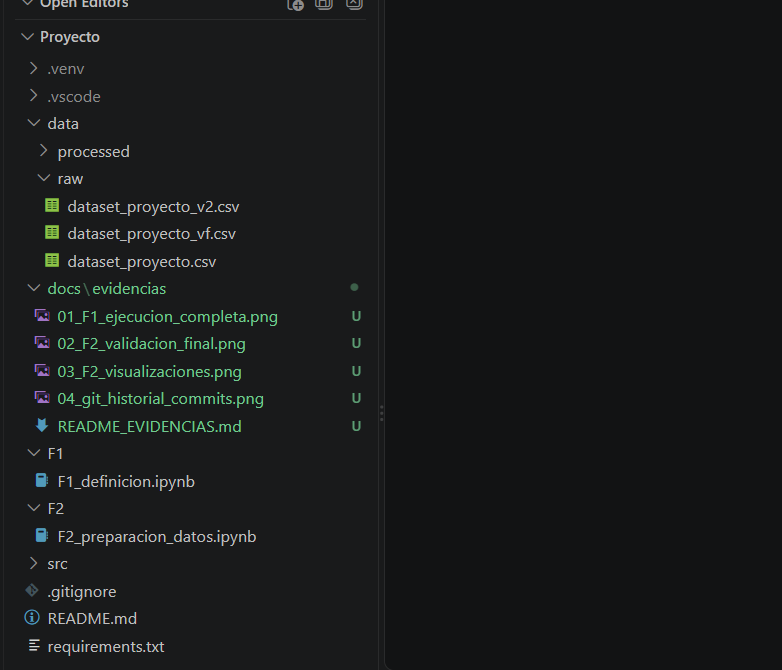
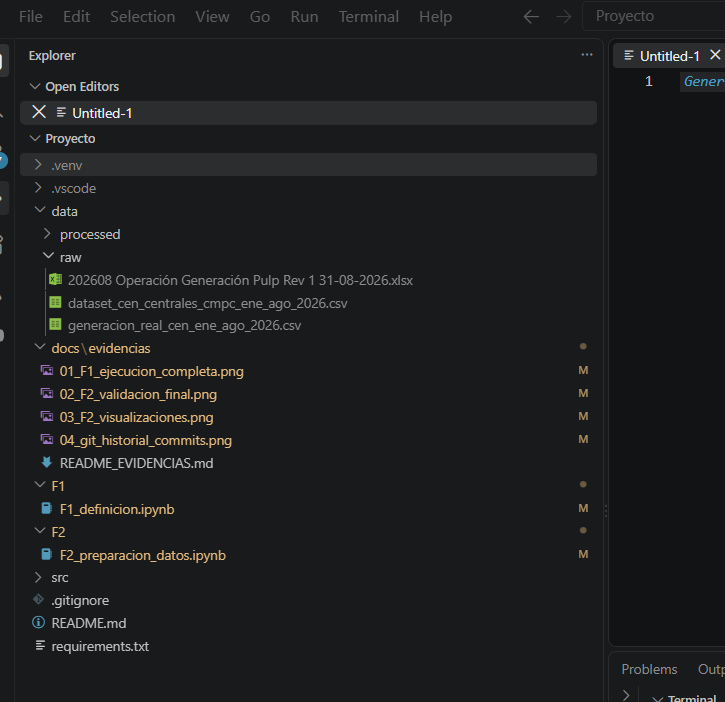
Actualiza evidencias de ejecución con dataset público CEN

diff --git a/docs/evidencias/README_EVIDENCIAS.md b/docs/evidencias/README_EVIDENCIAS.md
@@ -1,49 +1,119 @@
-# Evidencias de ejecución, validación y trazabilidad
+# Evidencias de ejecución y trazabilidad
 
-Esta carpeta reúne evidencias asociadas a la ejecución reproducible, validación técnica y trazabilidad del proyecto desarrollado en las Fases 1 y 2.
+## Sumativa 1 – Programación para la Ciencia de Datos
 
-## Evidencias
+Este directorio contiene las evidencias asociadas a la ejecución reproducible de los notebooks F1 y F2, la preparación y validación del conjunto de datos, las visualizaciones generadas y el control de versiones del proyecto.
 
-### 01. Ejecución completa F1
+El proyecto utiliza como fuente los datos públicos de **Generación Real del Coordinador Eléctrico Nacional (CEN)** para el período comprendido entre enero y agosto de 2026.
 
-**Archivo:** `01_F1_ejecucion_completa.png`
+El alcance analítico considera las centrales:
 
-Evidencia la ejecución completa del notebook correspondiente a la Fase 1, incluyendo la carga reproducible del dataset y la validación de su estructura.
+- TER CMPC LAJA
+- TER CMPC PACIFICO
+- TER CMPC SANTA FE
 
----
-
-### 02. Validación final F2
-
-**Archivo:** `02_F2_validacion_final.png`
-
-Evidencia la ejecución de las pruebas automáticas implementadas mediante `assert`, la conservación de las dimensiones del dataset, la ausencia de valores nulos generados durante el procesamiento y la correcta transformación de las variables.
+La fuente original contiene **359.891 registros y 33 variables**. Luego de seleccionar el alcance y transformar las mediciones horarias desde formato ancho a formato largo, el conjunto de datos procesado contiene **17.496 observaciones y 13 variables**.
 
 ---
 
-### 03. Visualizaciones exploratorias F2
+## 01_F1_ejecucion_completa.png
 
-**Archivo:** `03_F2_visualizaciones.png`
+**Propósito:** evidenciar la correcta ejecución de las validaciones iniciales desarrolladas en `F1/F1_definicion.ipynb`.
 
-Evidencia la incorporación de visualizaciones exploratorias asociadas al comportamiento temporal de los turbogeneradores y a la proporción de registros iguales a cero.
+La captura muestra la ejecución satisfactoria de las validaciones mediante instrucciones `assert`, verificando que:
 
----
+- la fuente contiene al menos 2.000 registros;
+- la fuente contiene al menos 12 variables;
+- el subconjunto seleccionado contiene 729 registros originales;
+- el alcance considera exactamente tres centrales.
 
-### 04. Historial de commits Git
+La salida obtenida registra:
 
-**Archivo:** `04_git_historial_commits.png`
+- Registros fuente: 359.891
+- Variables fuente: 33
+- Registros del alcance: 729
+- Centrales del alcance: 3
 
-Evidencia la trazabilidad del proyecto mediante Git y GitHub, incluyendo commits descriptivos y contribuciones realizadas por los integrantes del equipo.
-
----
-
-### 05. Estructura del repositorio
-
-**Archivo:** `05_estructura_repositorio.png`
-
-Evidencia la organización del repositorio en carpetas y archivos asociados a las Fases 1 y 2, datos originales y procesados, documentación, código fuente, dependencias y README principal.
+La ausencia de errores durante la ejecución permite comprobar que las condiciones iniciales definidas para el proyecto se cumplen.
 
 ---
 
-## Observación
+## 02_F2_validacion_final.png
 
-Las evidencias complementan los resultados almacenados directamente en los notebooks y el historial disponible en GitHub. Su propósito es facilitar la revisión del proceso de ejecución, validación y control de versiones del proyecto.
+**Propósito:** evidenciar la preparación, transformación y validación final del conjunto de datos analítico desarrollado en `F2/F2_preparacion_datos.ipynb`.
+
+F2 transforma la estructura original de la fuente, que presenta 24 columnas horarias (`Hora 1` a `Hora 24`), a un formato largo con una única unidad de observación:
+
+> Una observación representa la generación eléctrica registrada para una central durante una hora determinada, expresada en MWh.
+
+El dataset procesado contiene:
+
+- 17.496 observaciones;
+- 13 variables;
+- tres centrales;
+- período enero–agosto de 2026.
+
+Las validaciones implementadas comprueban, entre otros aspectos, la estructura esperada, identificadores únicos, ausencia de duplicados, control de valores faltantes y ausencia de valores negativos de generación.
+
+Los valores iguales a **0 MWh se conservan como observaciones válidas reportadas por la fuente**, sin atribuir automáticamente una causa operacional.
+
+---
+
+## 03_F2_visualizaciones.png
+
+**Propósito:** evidenciar la aplicación de herramientas de análisis y visualización sobre el conjunto de datos preparado.
+
+El notebook F2 incorpora visualizaciones orientadas a explorar el comportamiento de la generación eléctrica de las centrales seleccionadas, incluyendo análisis temporal, comportamiento horario y presencia de registros con generación igual a 0 MWh.
+
+Estas visualizaciones permiten complementar las validaciones numéricas y facilitan la identificación de patrones en los datos procesados.
+
+---
+
+## 04_git_historial_commits.png
+
+**Propósito:** evidenciar la trazabilidad y el uso de control de versiones mediante Git y GitHub.
+
+La captura del historial permite observar:
+
+- desarrollo mediante commits;
+- utilización de ramas;
+- integración de trabajo colaborativo;
+- Pull Requests;
+- evolución de F1 y F2;
+- migración desde el conjunto de datos utilizado inicialmente hacia la fuente pública del CEN;
+- retiro de datasets privados del versionamiento;
+- actualización de la documentación del proyecto.
+
+El historial se conserva como evidencia de la evolución del proyecto y de las decisiones implementadas durante su desarrollo.
+
+---
+
+## 05_estructura_repositorio.png
+
+**Propósito:** evidenciar la organización técnica del proyecto.
+
+La estructura separa los principales componentes del trabajo:
+
+- `F1/`: definición y configuración inicial del proyecto.
+- `F2/`: preparación, transformación, exploración y validación de datos.
+- `data/processed/`: dataset analítico generado por F2.
+- `data/raw/`: archivos fuente disponibles localmente y excluidos del versionamiento.
+- `docs/evidencias/`: evidencias de ejecución y trazabilidad.
+- `src/`: directorio destinado a código reutilizable del proyecto.
+- `.gitignore`: reglas de exclusión de archivos que no deben versionarse.
+- `README.md`: documentación general del proyecto.
+- `requirements.txt`: dependencias necesarias para reproducir el entorno.
+
+Los datos `raw` se mantienen localmente para permitir la ejecución de los notebooks, pero se encuentran excluidos del control de versiones mediante `.gitignore`.
+
+---
+
+## Reproducibilidad y trazabilidad
+
+En este proyecto se distinguen ambos conceptos:
+
+**Reproducibilidad:** capacidad de volver a ejecutar el flujo utilizando el mismo código, dependencias y fuente de datos para obtener resultados consistentes.
+
+**Trazabilidad:** capacidad de reconstruir la evolución del proyecto mediante commits, ramas, Pull Requests, documentación y evidencias de las decisiones adoptadas.
+
+Las evidencias contenidas en este directorio complementan los notebooks, el README principal y el historial del repositorio.
